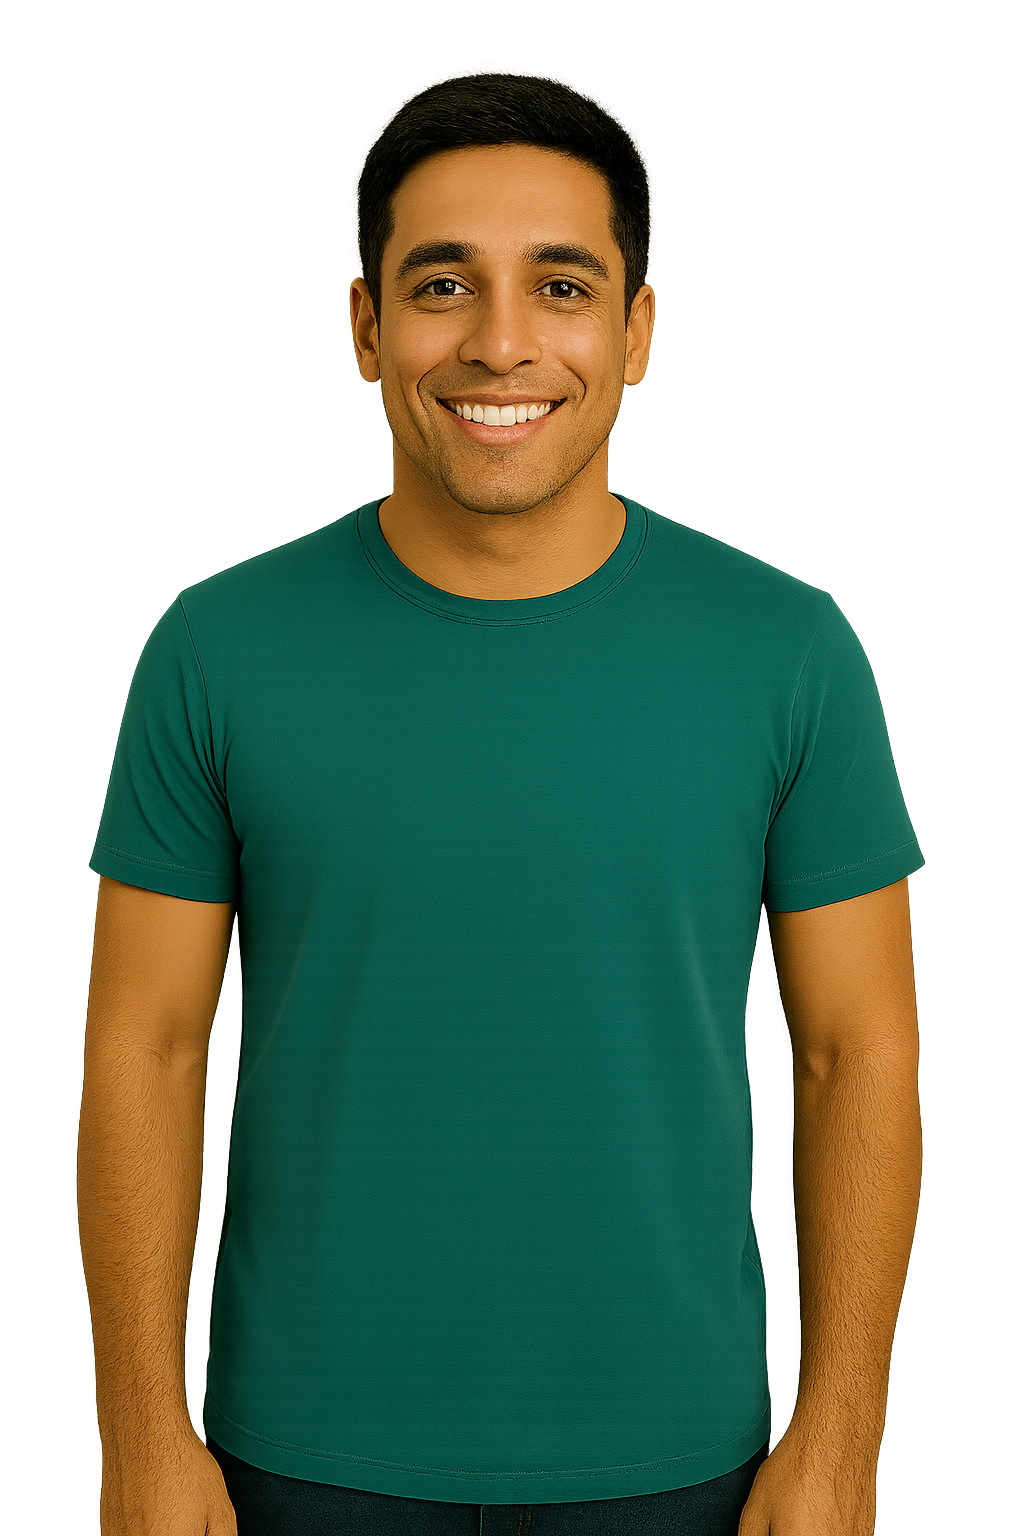
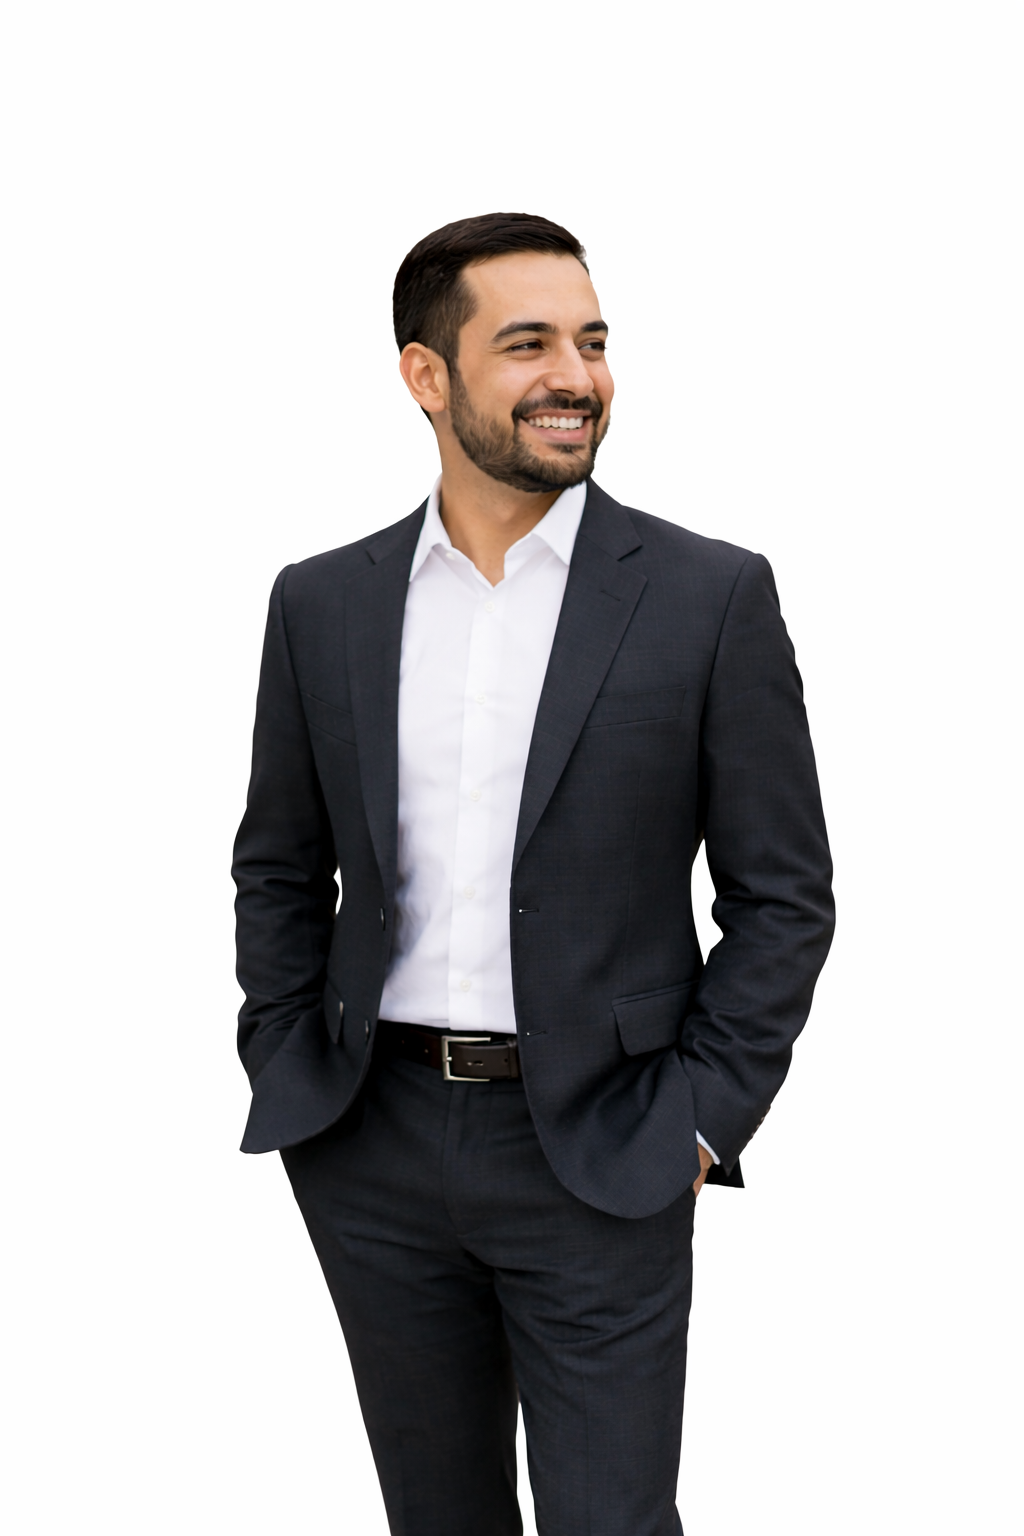
fix a bunch of stuff- good hotdog
fix a bunch of stuff- good hotdog

diff --git a/lagente.html b/lagente.html
@@ -1,10 +1,9 @@
 <!DOCTYPE html>
-<html lang="es">
+<html lang="en">
 <head>
   <meta charset="UTF-8" />
   <meta name="viewport" content="width=device-width, initial-scale=1.0" />
-  <title>Bite-Sized Spanish</title>
- 
+  <title>The People (La Gente)</title>
   <style>
     * {
       font-size: 1.2rem;
@@ -13,32 +12,31 @@
 
     body {
       margin: 0;
-     
       display: flex;
       flex-direction: column;
       align-items: center;
       overflow-x: hidden;
     }
 
- .box {
-  position: absolute;
-  border-radius: 20px;
-  overflow: hidden;
-  transition: box-shadow 0.2s ease, outline 0.2s ease;
-}
+    .box {
+      position: absolute;
+      border-radius: 20px;
+      overflow: hidden;
+      transition: box-shadow 0.2s ease, outline 0.2s ease;
+    }
 
-.box.selected {
-  outline: 3px solid gold;
-     z-index: 9999;
-}
+    .box.selected {
+      outline: 3px solid gold;
+      z-index: 9999;
+    }
 
-.box img {
-  width: 100%;
-  height: 100%;
-  object-fit: contain;
-  transition: none !important;
-  transform: none !important;
-}
+    .box img {
+      width: 100%;
+      height: 100%;
+      object-fit: contain;
+      transition: none !important;
+      transform: none !important;
+    }
 
     .button-bar {
       position: absolute;
@@ -51,151 +49,94 @@
       background-color: rgba(0, 0, 0, 0.5);
     }
 
-
     .rounded-box {
       width: 300px;
       padding: 20px;
       background-color: #f0f0f0;
-      border-radius: 20px; /* This creates the rounded corners */
+      border-radius: 20px;
       box-shadow: 2px 2px 10px rgba(0,0,0,0.1);
       font-family: sans-serif;
     }
 
+    button 
+      font-size: 18px;
+      background-color: #007BFF;
+      color: white;
+      border: none;
+      border-radius: 8px;
+      cursor: pointer;
+      box-shadow: 0 4px 8px rgba(0,0,0,0.2);
+      padding: 10px 20px;
+    }
   </style>
 </head>
 <body>
 
   <!-- 10 interactive boxes with images -->
- 
-  <div id="box1" class="box" style="top: 58vh; left: 12vw; width: 24vh; height: 24vh;"><img src="pronouns/images/p1.png" alt="1"></div>
-  <div id="box2" class="box" style="top: 58vh; left: 37vw; width: 24vh; height: 24vh;"><img src="pronouns/images/p2.png" alt="2"></div>
-  <div id="box3" class="box" style="top: 58vh; left: 58vw; width: 24vh; height: 24vh;"><img src="pronouns/images/p3.png" alt="3"></div>
-  <div id="box4" class="box" style="top: 58vh; left: 75vw; width: 24vh; height: 24vh;"><img src="pronouns/images/p4.png" alt="4"></div>
-  <div id="box5" class="box" style="top: 29vh; left: 12vw; width: 24vh; height: 24vh;"><img src="pronouns/images/p5.png" alt="5"></div>
-  <div id="box6" class="box" style="top: 29vh; left: 37vw; width: 24vh; height: 24vh;"><img src="pronouns/images/p6.png" alt="6"></div>
-  <div id="box7" class="box" style="top: 29vh; left: 58vw; width: 24vh; height: 24vh;"><img src="pronouns/images/p7.png" alt="7"></div>
-  <div id="box8" class="box" style="top: 2vh; left: 12vw; width: 24vh; height: 24vh;"><img src="pronouns/images/p8.png" alt="8"></div>
-  <div id="box9" class="box" style="top: 2vh; left: 37vw; width: 24vh; height: 24vh;"><img src="pronouns/images/p9.png" alt="9"></div>
-  <div id="box10" class="box" style="top: 2vh; left: 58vw; width: 24vh; height: 24vh;"><img src="pronouns/images/p10.png" alt="10"></div>
+  <div id="box10" class="box" style="top: 2vh; left: 81vw; width: 34vh; height: 34vh;"><img src="./pronouns/images/p10.png" alt="10"></div>
+  <div id="box2" class="box" style="top: 61vh; left: 61vw; width: 34vh; height: 34vh;"><img src="./pronouns/images/p2.png" alt="2"></div>
+  <div id="box3" class="box" style="top: 58vh; left: 40vw; width: 34vh; height: 34vh;"><img src="./pronouns/images/p3.png" alt="3"></div>
+  <div id="box4" class="box" style="top: 58vh; left: 21vw; width: 34vh; height: 34vh;"><img src="./pronouns/images/p4.png" alt="4"></div>
+  <div id="box5" class="box" style="top: 58vh; left: 4vw; width: 34vh; height: 34vh;"><img src="./pronouns/images/p5.png" alt="5"></div>
+  <div id="box6" class="box" style="top: 2vh; left: 4vw; width: 34vh; height: 34vh;"><img src="./pronouns/images/p6.png" alt="6"></div>
+  <div id="box7" class="box" style="top: 2vh; left: 24vw; width: 34vh; height: 34vh;"><img src="./pronouns/images/p7.png" alt="7"></div>
+  <div id="box8" class="box" style="top: 2vh; left: 43vw; width: 34vh; height: 34vh;"><img src="./pronouns/images/p8.png"  alt="8"></div>
+  <div id="box9" class="box" style="top: 2vh; left: 61vw; width: 34vh; height: 34vh;"><img src="./pronouns/images/p9.png" alt="9"></div>
+  <div id="box1" class="box" style="top:58vh; left: 81vw; width: 34vh; height: 34vh;"><img src="./pronouns/images/p1.png" alt="1"></div>
 
+  <!-- Return button (English) -->
   <div style="text-align: center; margin-top: 10px;">
-  <button onclick="location.href='director.html'" 
-          style="position:absolute;top:83vh;font-size: 18px; background-color: #007BFF; color: white; border: none; border-radius: 8px; cursor: pointer; box-shadow: 0 4px 8px rgba(0,0,0,0.2);">
-    Continuar
-  </button>
-</div>
-<audio id="player"></audio>
+    <button onclick="location.href='./director.html'" style="position:absolute;top:83vh;">
+      Continuar
+    </button>
+  </div>
 
-  <script>
-(() => {
-  // Preload and map 1.m4a ... 11.m4a (files are in the same folder as LaGente.html)
-  const AUDIO_MAX = 10;
-  const sounds = new Map();
-  for (let n = 1; n <= AUDIO_MAX; n++) {
-    const a = new Audio(pronouns/audio/`./${n}.m4a`);
-    a.preload = "auto";
-    sounds.set(String(n), a);
-  }
-  // Utility: play from start; stop any currently playing copy of the same file
-  function playNumber(n) {
-    const audio = sounds.get(String(n));
-    if (!audio) {
-      console.warn(`[LaGente] No audio preloaded for number: ${n}`);
-      return;
-    }
-    // Reset to start and play
-    try {
-      audio.pause();
-      audio.currentTime = 0;
-      audio.play().catch(err => {
-        console.error(`[LaGente] Browser blocked or failed to play ${n}.m4a:`, err);
-      });
-    } catch (e) {
-      console.error(`[LaGente] Error trying to play ${n}.m4a:`, e);
-    }
-  }
-  // Wire up every element that declares data-audio="N"
-  function wireBoxes() {
-    const clickable = document.querySelectorAll('[data-audio]');
-    clickable.forEach(el => {
-      const n = el.getAttribute('data-audio');
-      el.addEventListener('click', () => playNumber(n));
-      // (Optional) keyboard access:
-      el.setAttribute('tabindex', '0');
-      el.addEventListener('keydown', (e) => {
-        if (e.key === 'Enter' || e.key === ' ') {
-          e.preventDefault();
-          playNumber(n);
-        }
-      });
-    });
-    // Ghosts: do nothing (but we can prevent pointer cues)
-    const ghosts = document.querySelectorAll('.ghost, [data-ghost]');
-    ghosts.forEach(el => {
-      el.style.cursor = 'not-allowed';
-      el.addEventListener('click', (e) => e.stopPropagation(), true);
-    });
-    console.log(`[LaGente] Wired ${clickable.length} talking boxes; ${ghosts.length} ghosts.`);
-  }
-  // Run when DOM is ready
-  if (document.readyState === 'loading') {
-    document.addEventListener('DOMContentLoaded', wireBoxes);
-  } else {
-    wireBoxes();
-  }
-})();
-</script>
+  <audio id="player"></audio>
 
 <script>
-  /* === SET THIS TO YOUR FOLDER ===
-     If your audio is in: pronouns/lesson1/sound/
-     leave it exactly like this. If your folder is different,
-     just change the string below.
-  */
-  const AUDIO_BASE = 'pronouns/audio/';
+  const AUDIO_BASE = './pronouns/audio/';
 
-  // Try n.M4a → n.m4a → n.mp3 inside AUDIO_BASE
   function playAny(n) {
     const files = [
-      `${AUDIO_BASE}${n}.M4a`,
-      `${AUDIO_BASE}${n}.m4a`,
-      `${AUDIO_BASE}${n}.mp3`
+      `${AUDIO_BASE}${n}.m4a`,  // preferred lowercase extension
+      `${AUDIO_BASE}${n}.mp3`,  // fallback
+      `${AUDIO_BASE}${n}.wav`   // optional extra fallback
     ];
+
     let i = 0;
-    const a = new Audio(files[i]);
+    let a = new Audio(files[i]);
+
     a.onerror = () => {
-      if (++i < files.length) {
-        a.src = files[i];
-        a.play().catch(()=>{});
+      i++;
+      if (i < files.length) {
+        a = new Audio(files[i]);  // recreate with next file
+        a.play().catch(() => {});
       }
     };
-    a.play().catch(()=>{});
+
+    a.play().catch(() => {});
   }
 
-  // Wire boxes 1..10 → play 1..10 from the folder
+  // Wire boxes 1–10 → play 1–10 from folder
   for (let n = 1; n <= 10; n++) {
     const el = document.getElementById('box' + n);
     if (!el) continue;
     el.style.cursor = 'pointer';
     el.setAttribute('role', 'button');
     el.setAttribute('tabindex', '0');
-
-    el.addEventListener('click', () => playAny(String(n)));
+    el.addEventListener('click', () => playAny(n));
     el.addEventListener('keydown', (e) => {
       if (e.key === 'Enter' || e.key === ' ') {
         e.preventDefault();
-        playAny(String(n));
+        playAny(n);
       }
     });
   }
-
 </script>
 
+
+
+  
+  
 </body>
 </html>
- 
-
-
-
-
-
